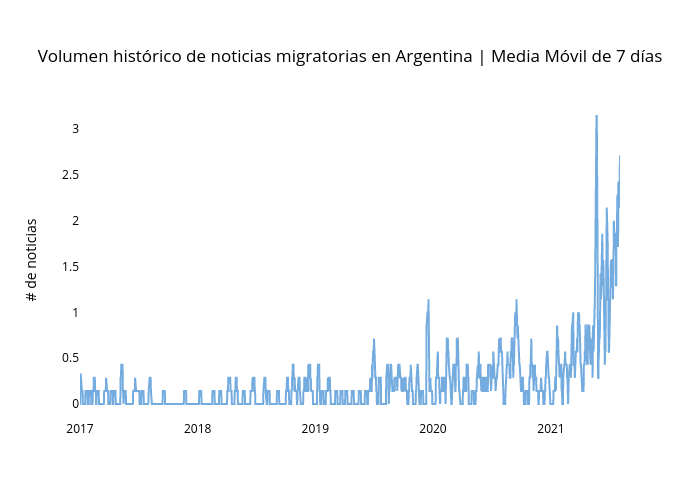
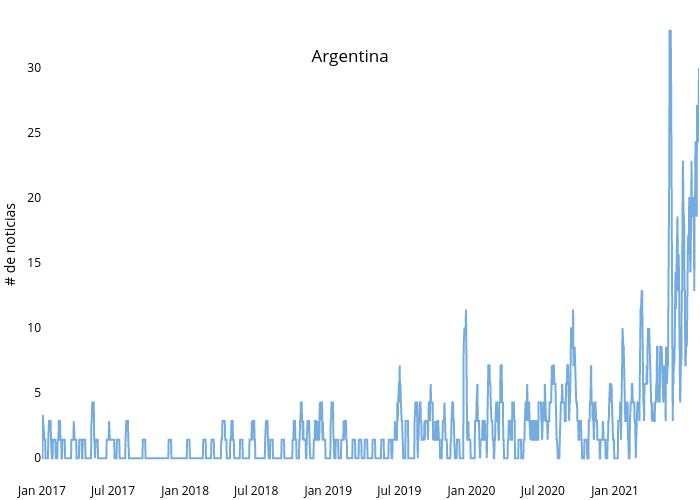
update imageas, create SMA_7d_noticias_sep and time_series_facet script

diff --git a/time_series_facet.py b/time_series_facet.py
@@ -1,7 +1,6 @@
 import pandas as pd
 import plotly.express as px
 import plotly.graph_objects as go
-from plotly.subplots import make_subplots
 import numpy as np
 import os
 
@@ -64,15 +63,15 @@ paises_codes = {'ar':'ARGENTINA',
                 've' : 'VENEZUELA'
                }
 paises_codes_correct = {'ar':'ARGENTINA',
-                'co':'COLOMBIA',
-                'mx':'MÉXICO',
-                'cl':'CHILE',
-                'ec':'ECUADOR',
-                'pe':'PERÚ',
-                'gt':'GUATEMALA',
-                'sv':'EL SALVADOR',
-                'hn':'HONDURAS',
-                'br':'BRASIL',
+                'co': 'COLOMBIA',
+                'mx': 'MÉXICO',
+                'cl': 'CHILE',
+                'ec': 'ECUADOR',
+                'pe': 'PERÚ',
+                'gt': 'GUATEMALA',
+                'sv': 'EL SALVADOR',
+                'hn': 'HONDURAS',
+                'br': 'BRASIL',
                 'uy': 'URUGUAY',
                 'pr': 'PUERTO RICO',
                 'bz': 'BELICE',
@@ -80,21 +79,21 @@ paises_codes_correct = {'ar':'ARGENTINA',
                 'tt': 'TRINIDAD Y TOBAGO',
                 'jm': 'JAMAICA',
                 'sr': 'SURINAME',
-                'gf' : 'GUYANA FRANCESA',
+                'gf': 'GUYANA FRANCESA',
                 'do': 'REPÚBLICA DOMINICANA',
-                'ni' : 'NICARAGUA',
-                'py' : 'PARAGUAY',
-                'pa' : 'PANAMÁ',
+                'ni': 'NICARAGUA',
+                'py': 'PARAGUAY',
+                'pa': 'PANAMÁ',
                 'bo': 'BOLIVIA',
-                'cr' : 'COSTA RICA',
-                've' : 'VENEZUELA'
+                'cr': 'COSTA RICA',
+                've': 'VENEZUELA'
                }
 
-paises = ['ar', 'bb', 'bo', 'br', 'bz', 'cl', 'co', 'cr', 'do', 'ec', 'gf', 'gt', 'hn', 'jm', 'mx', 'ni', 'pa', 'pe', 'pr', 'py', 'sr', 'sv', 'tt', 'uy', 've']
-#serie_vol = go.Figure()
+
+paises = ['ar', 'bb', 'bo', 'br', 'bz', 'cl', 'co', 'cr', 'do', 'ec', 'gt', 'hn', 'jm', 'mx', 'ni', 'pa', 'pe', 'pr', 'py', 'sr', 'sv', 'tt', 'uy', 've']
+# Se quitó gf
+df = pd.DataFrame()
 for pais in paises:
-    serie_vol = go.Figure()
-    print(pais)
     df_news = pd.read_csv(f'news_cln/news_{pais}_cln.csv', sep='\t')
     df_news['date'] =  pd.to_datetime(df_news['date'], format='%Y-%m-%d')
     df_news.sort_values('date', inplace = True)
@@ -108,45 +107,41 @@ for pais in paises:
     df_date = s.to_frame().reset_index().rename({'index': 'date', 'link': 'count'},axis=1)
     df_date = df_date[df_date['date']>= '2017-01-01']
     # SMA 7-days
-    df_date['SMA_7'] = df_date['count'].rolling(7, min_periods=1).mean()*10
-    #CMA
-    df_date['CMA'] = df_date['count'].expanding().mean()
-    # EMA 7 days
-    df_date['EMA_7'] = df_date['count'].ewm(span = 7, adjust=False).mean()
-    X = df_date['date'].tolist()
-    Y = df_date['SMA_7'].tolist()
-    serie_vol.add_trace(go.Scatter(x=X, y=Y,
-                            mode='lines',
-                            name=paises_codes[pais].title(),
-                            marker=dict(color=PAISES_BID[paises_codes[pais]])
-                            #visible=True if prov in main else 'legendonly'
-                           ))
-    serie_vol.update_layout( #showlegend=False,
-                           paper_bgcolor='rgba(0,0,0,0)',
-                           plot_bgcolor='rgba(0,0,0,0)',
-                           yaxis_title="# de noticias",
-                           margin = dict(l=1, r=1, b=5, t=7),
-                           font = dict(color='black'))
-    # serie_vol.update_xaxes(
-    #     rangeslider_visible=True,
-    #     rangeselector=dict(
-    #         buttons=list([
-    #             dict(count=1, label="1m", step="month", stepmode="backward"),
-    #             dict(count=6, label="6m", step="month", stepmode="backward"),
-    #             dict(count=1, label="YTD", step="year", stepmode="todate"),
-    #             dict(count=1, label="1y", step="year", stepmode="backward"),
-    #             dict(step="all")
-    #         ]), bgcolor='#272B30'
-    #     )
-    # )
-    serie_vol.update_layout(
-        title={
-            # 'text': f"Volumen histórico de noticias migratorias en {paises_codes_correct[pais].title()} | Media Móvil de 7 días",
-            'text': f"{paises_codes_correct[pais].title()}",
-            'y':0.9,
-            'x':0.5,
-            'xanchor': 'center',
-            'yanchor': 'top'})
+    df_date['Núm. noticias'] = df_date['count'].rolling(7, min_periods=1).mean()*10
+    df_date['país'] = [paises_codes_correct[pais]] * len(df_date)
+    df = pd.concat([df, df_date])
 
-    #serie_vol.write_html(f"images/SMA_7d_noticias_{pais}.html")
-    serie_vol.write_image(f"images/SMA_7d_noticias_{pais}.png")
+fig = px.line(df, x='date', y = 'Núm. noticias',
+              color_discrete_sequence=[k[1] for k in PAISES_BID.items()],
+              color='país',
+              facet_row_spacing=0.04,
+              height=900,    
+              facet_col='país', facet_col_wrap=3)
+fig.update_yaxes(matches=None)
+fig.for_each_annotation(lambda a: a.update(text=a.text.replace("país=", "")))
+for axis in fig.layout:
+    if type(fig.layout[axis]) == go.layout.YAxis:
+        fig.layout[axis].title.text = ''
+
+for axis in fig.layout:
+    if type(fig.layout[axis]) == go.layout.XAxis:
+        fig.layout[axis].title.text = ''
+
+fig.update_layout(
+    # keep the original annotations and add a list of new annotations:
+    annotations = list(fig.layout.annotations) + 
+                  [go.layout.Annotation(x=-0.07,
+                          y=0.5,
+                          font=dict(size=14),
+                          showarrow=False,
+                          text="Núm. de noticias",
+                          textangle=-90,
+                          xref="paper",
+                          yref="paper"
+                          )],
+    showlegend=False,
+    paper_bgcolor='rgba(0,0,0,0)',
+    plot_bgcolor='rgba(0,0,0,0)',)
+
+
+fig.write_image(f"images/SMA_7d_noticias_sep.png")
